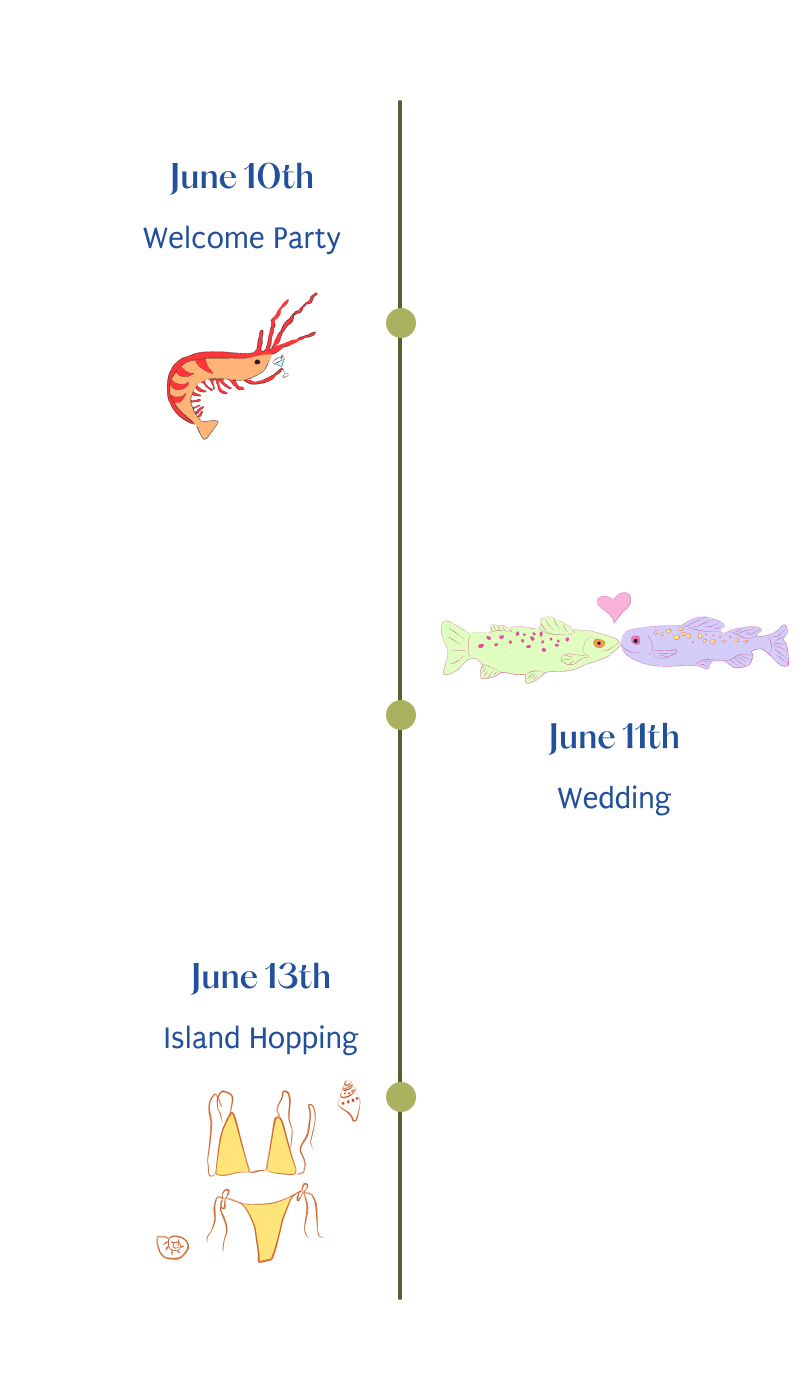
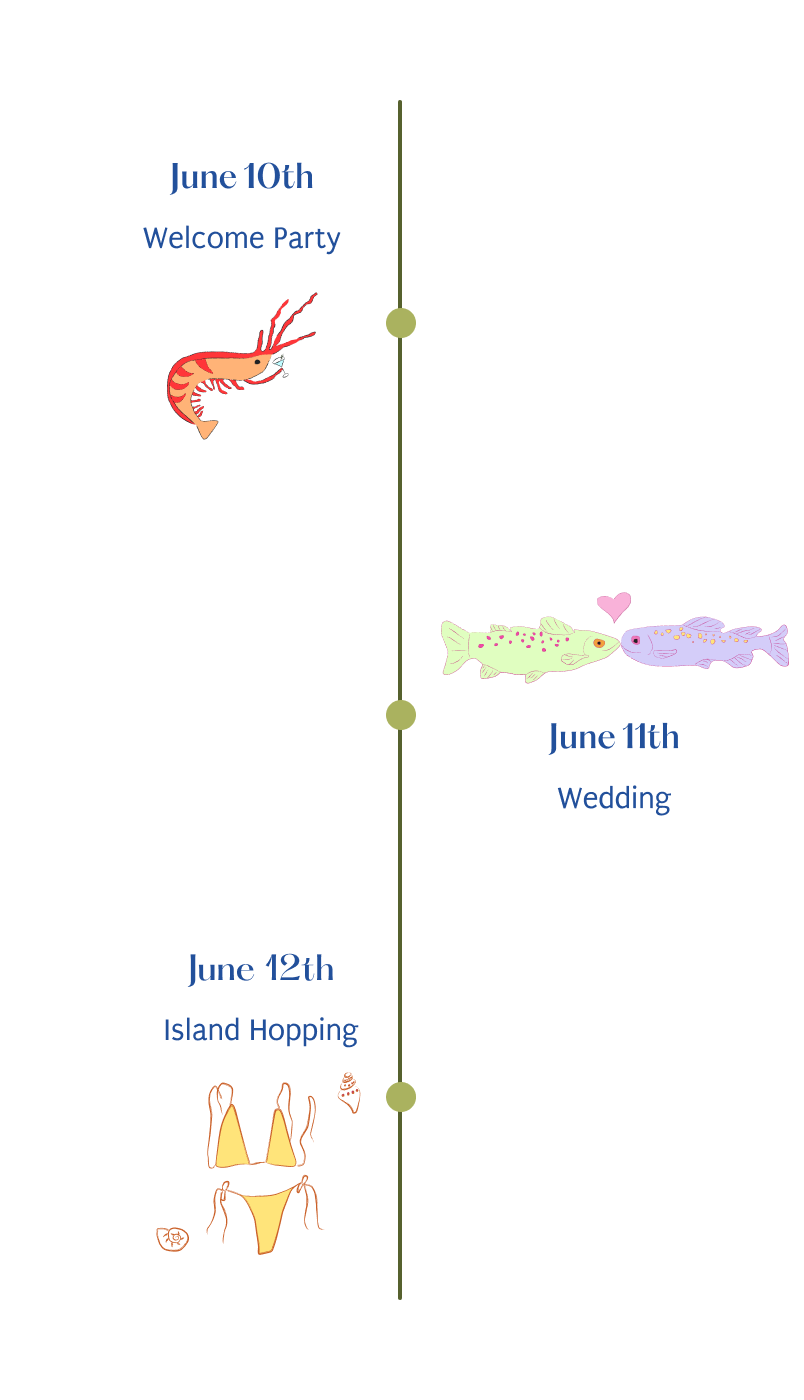
update island hopping date

Changed region(s): [[0.1866, 0.6757, 0.4664, 0.9214]]

diff --git a/src/app/opt-in-activities/page.tsx b/src/app/opt-in-activities/page.tsx
@@ -40,8 +40,8 @@ const OptInActivitiesPage = () => {
 						>
 							<Box>
 								<ActivityCard
-									date="June 13th"
-									description="A boat tour that takes you to 3 islands: Guyam Island, Naked Island, and Daku Island. Boats depart around 7-8AM. Boodle lunch will be served."
+									date="June 12th"
+									description="A boat tour that takes you to 3 islands: Guyam Island, Naked Island, and Daku Island. Boats depart around 11AM. Boodle lunch will be served."
 									image={islandHopping}
 									title="Island Hopping"
 								/>

diff --git a/src/app/schedule/mobile/mobile-schedule.tsx b/src/app/schedule/mobile/mobile-schedule.tsx
@@ -133,8 +133,8 @@ const MobileSchedule: React.FC<Props> = ({ attendeeType, enableAnimation }) => {
 										>
 											Island Hopping
 										</Heading>
-										<Text>June 13th | Saturday</Text>
-										<Text>8AM</Text>
+										<Text>June 12th | Friday</Text>
+										<Text>11AM</Text>
 									</VStack>
 								</Center>
 							</SubSection>

diff --git a/src/constants/event.ts b/src/constants/event.ts
@@ -58,8 +58,8 @@ export const EVENTS: EventItem[] = [
 		type: "event",
 		id: "island-hopping",
 		title: "Island Hopping",
-		date: "June 13",
-		time: "8AM",
+		date: "June 12",
+		time: "11AM",
 		condition: (attendeeType) => attendeeType === AttendeeType.WP,
 	},
 	{

diff --git a/src/app/schedule/island-hopping.tsx b/src/app/schedule/island-hopping.tsx
@@ -21,9 +21,9 @@ const IslandHopping = () => {
 					/>
 				</Flex>
 			}
-			date="June 13th | Saturday"
+			date="June 12th | Friday"
 			imagePosition="right"
-			time="8AM"
+			time="11AM"
 			title="Island Hopping"
 		/>
 	);
